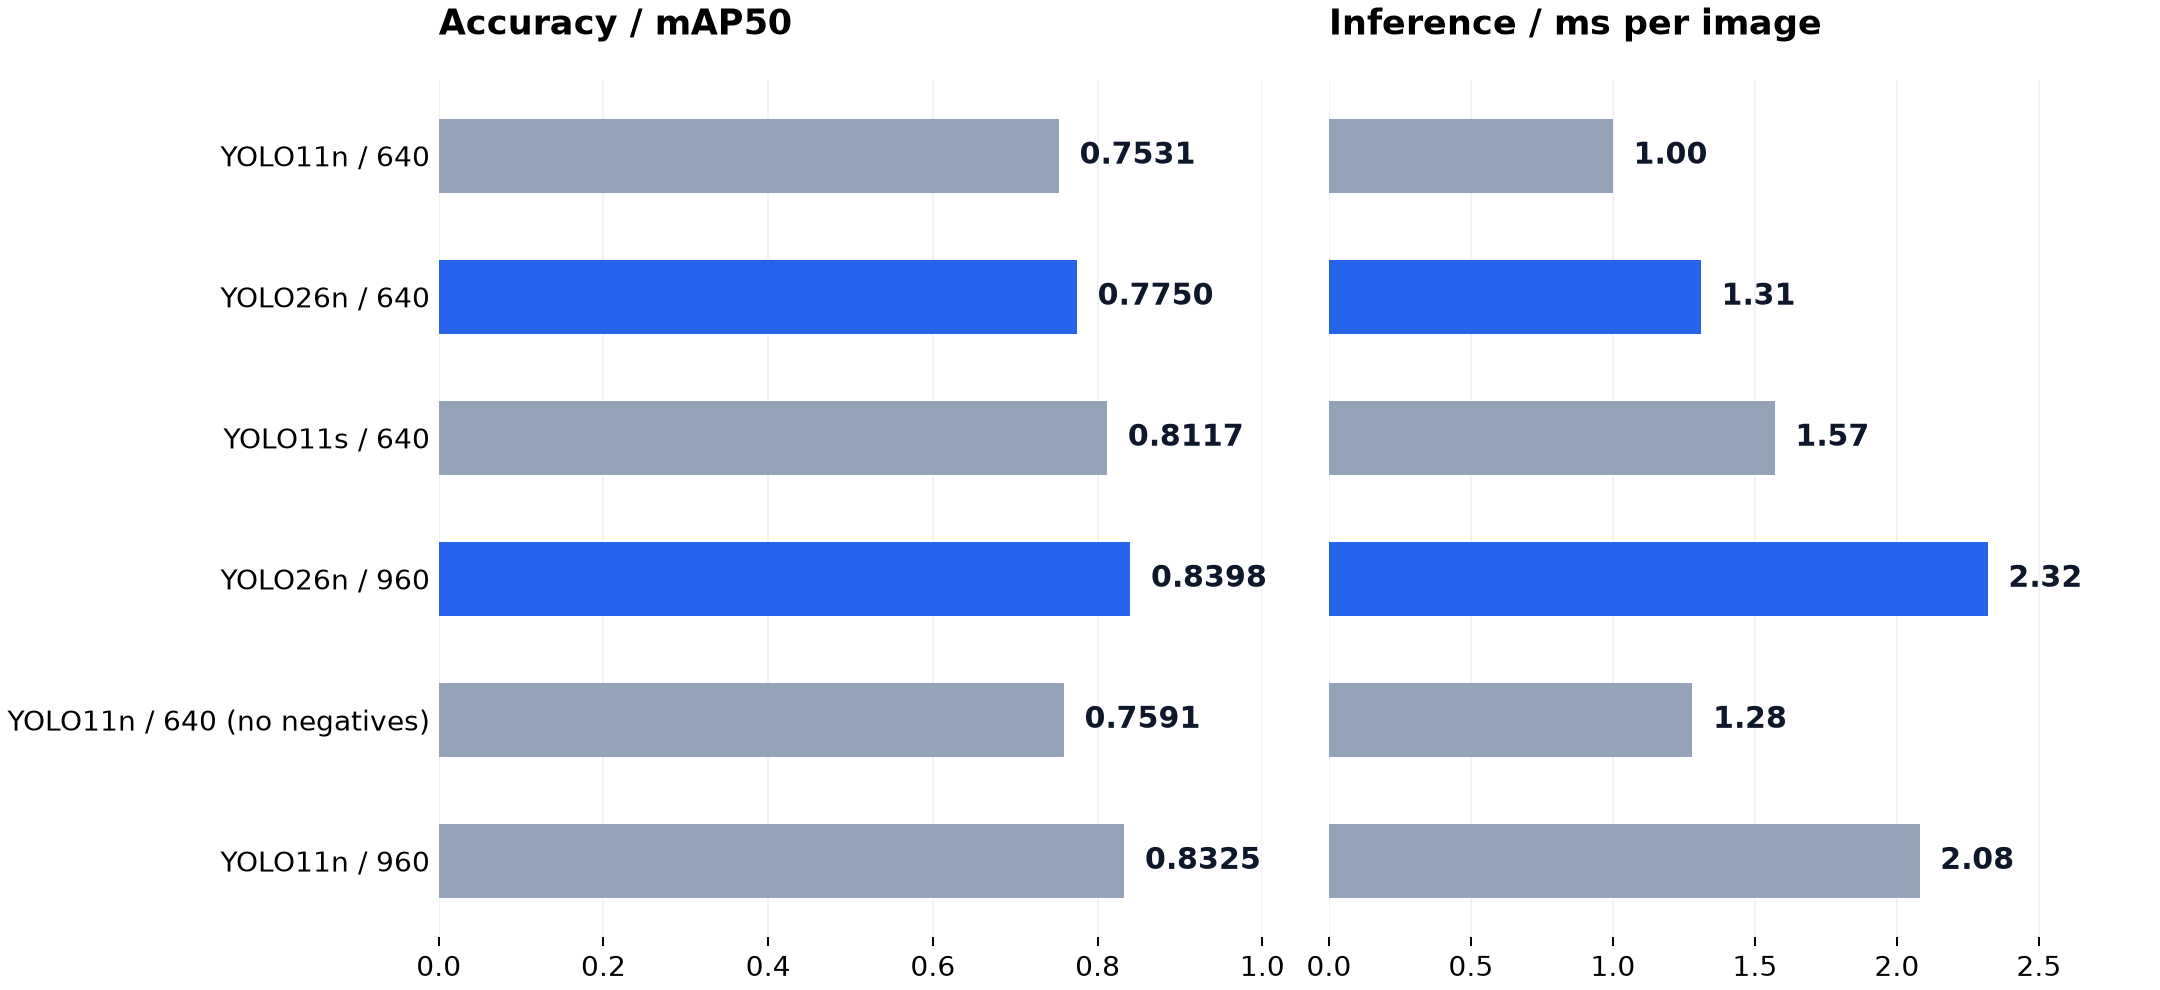
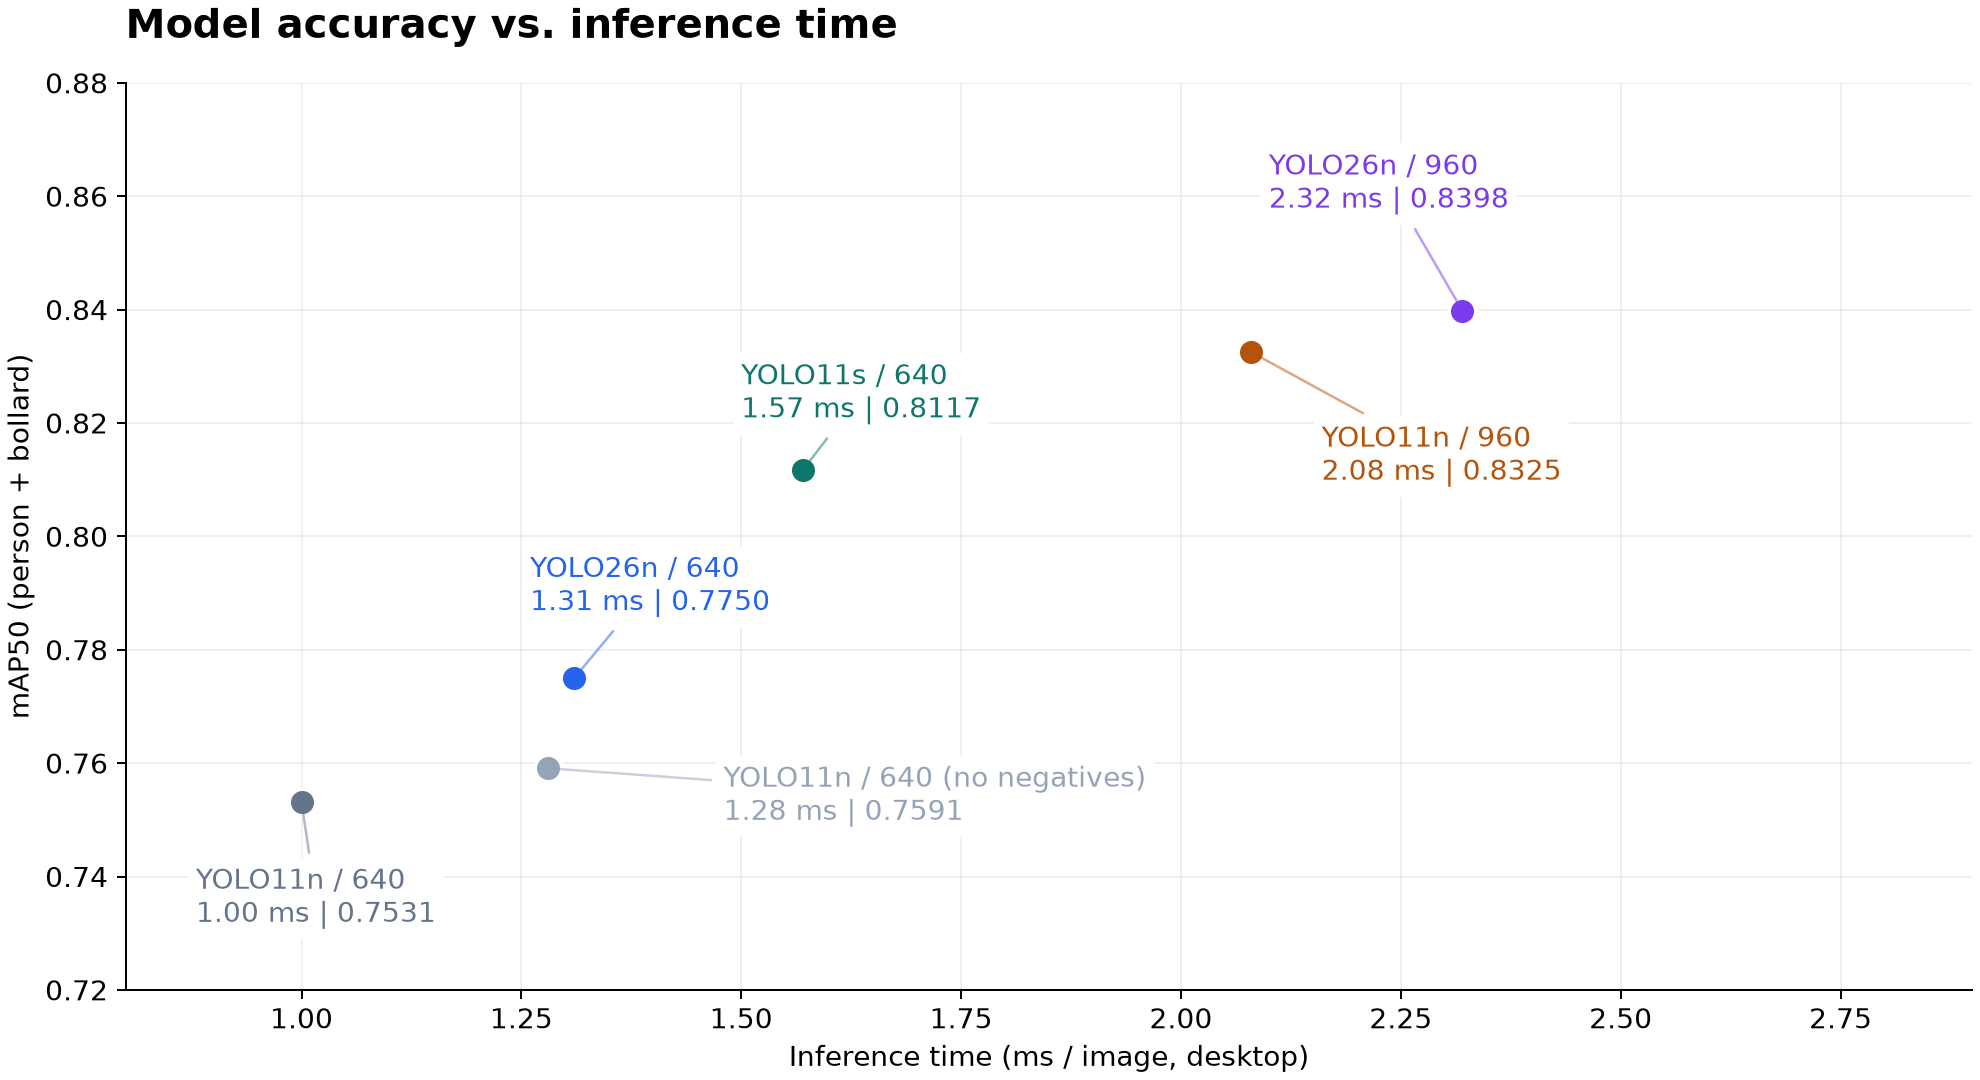
Show preliminary model accuracy and latency on scatter plot

diff --git a/tools/plot_preliminary_results.py b/tools/plot_preliminary_results.py
@@ -14,23 +14,20 @@ colors = ["#64748b", "#2563eb", "#0f766e", "#7c3aed", "#94a3b8", "#b45309"]
 labels = [f"{r['model']} / {r['imgsz']}" + (" / no negatives" if "noneg" in r['name'] else "") for r in rows]
 plt.rcParams.update({"font.family":"DejaVu Sans", "font.size":11, "axes.spines.top":False, "axes.spines.right":False, "axes.titleweight":"bold", "figure.facecolor":"white"})
 
-fig, axes = plt.subplots(1, 2, figsize=(12, 5.5), layout="constrained", sharey=True)
-y = np.arange(len(rows))
-bar_colors = ["#2563eb" if r["model"] == "YOLO26n" else "#94a3b8" for r in rows]
-for ax, key, title, limit, fmt in [(axes[0], "v2146_map50", "Accuracy / mAP50", 1.0, ".4f"), (axes[1], "inf_ms", "Inference / ms per image", 2.9, ".2f")]:
-    values = [float(r[key]) for r in rows]
-    ax.barh(y, values, height=.53, color=bar_colors)
-    for i, value in enumerate(values):
-        ax.text(value + limit*.025, i, format(value, fmt), va="center", fontsize=12, fontweight="bold", color="#0f172a")
-    ax.set_xlim(0, limit)
-    ax.set_title(title, loc="left", pad=18, fontsize=14)
-    ax.set_axisbelow(True)
-    ax.grid(axis="x", alpha=.15)
-    ax.spines["left"].set_visible(False)
-    ax.spines["bottom"].set_visible(False)
-    ax.tick_params(axis="y", length=0)
-axes[0].set_yticks(y, [label.replace(" / no negatives", " (no negatives)") for label in labels])
-axes[0].invert_yaxis()
+fig, ax = plt.subplots(figsize=(11, 6), layout="constrained")
+positions = [(.88, .732), (1.26, .787), (1.50, .821), (2.10, .858), (1.48, .750), (2.16, .810)]
+for i, row in enumerate(rows):
+    x, y = float(row["inf_ms"]), float(row["v2146_map50"])
+    ax.scatter(x, y, s=115, color=colors[i], edgecolor="white", linewidth=1.5, zorder=4)
+    label = labels[i].replace(" / no negatives", " (no negatives)")
+    ax.annotate(f"{label}\n{x:.2f} ms | {y:.4f}", (x, y), xytext=positions[i],
+                textcoords="data", fontsize=11, color=colors[i],
+                arrowprops={"arrowstyle": "-", "color": colors[i], "alpha": .5, "lw": 1},
+                bbox={"facecolor": "white", "edgecolor": "none", "pad": 3}, zorder=5)
+ax.set(xlabel="Inference time (ms / image, desktop)", ylabel="mAP50 (person + bollard)",
+       xlim=(.8, 2.9), ylim=(.72, .88))
+ax.set_title("Model accuracy vs. inference time", loc="left", pad=18, fontsize=16)
+ax.grid(alpha=.18)
 fig.savefig(OUT/'proposal-model-resolution.png',dpi=180)
 plt.close(fig)
 
